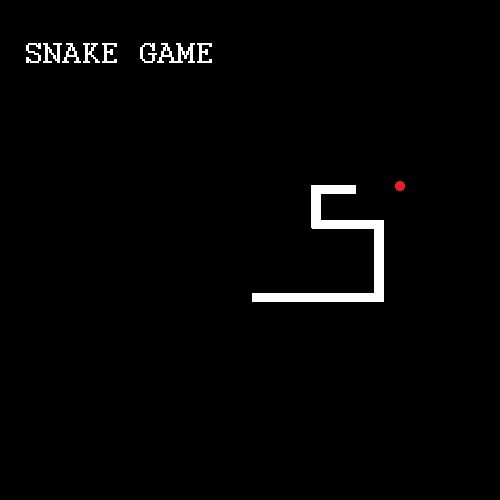
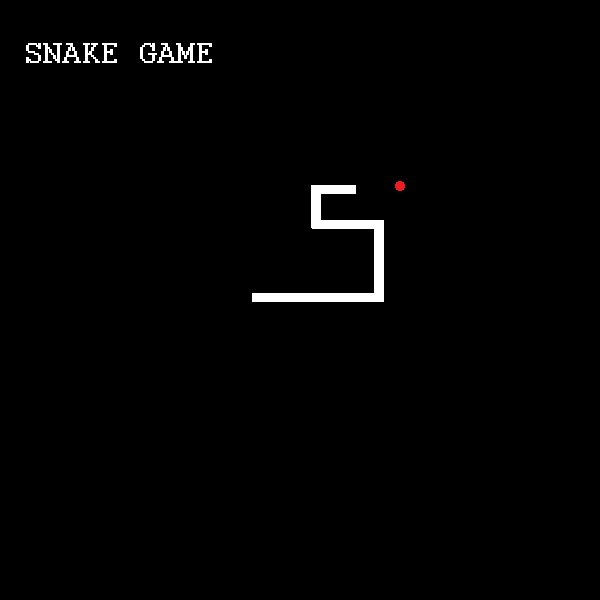
Code reorganization part 2

diff --git a/gui/gui.py b/gui/gui.py
@@ -1,34 +1,50 @@
 import tkinter
 from tkinter import *
+from core.game import main_game
 
 
 class GUI:
     def __init__(self):
         self.window = tkinter.Tk()
         self.window.title("Snake Game")
-        self.screen_width = 500
-        self.screen_height = 500
+        self.screen_width = 600
+        self.screen_height = 600
         self.window.resizable(width=False, height=False)
 
         canvas = tkinter.Canvas(master=self.window, width=self.screen_width, height=self.screen_height)
-        background = tkinter.PhotoImage(file="snake_title_screen.png")
+        background = tkinter.PhotoImage(file="gui/snake_title_screen.png")
         background_label = Label(image=background)
         background_label.place(x=0, y=0)
         canvas.grid(padx=0, pady=0, row=0, column=0, rowspan=10, columnspan=10)
 
+        self.start_button = Button(self.window, text="           Start           ", command=self.start_game).grid(
+            row=2,
+            column=1)
+
+        self.qui_controls = Button(self.window, text="           Controls          ").grid(row=3, column=1)
+
+        self.gui_author = Button(self.window, text="           Author           ").grid(row=4, column=1)
+
+        self.gui_quit = Button(self.window, text="           Quit          ", command=self.window.destroy).grid(
+            row=5,
+            column=1)
+
         self.window.mainloop()
 
-    def gui_start_game(self):
-        pass
+    def start_game(self):
+        self.window.destroy()
+        main_game()
 
     def gui_controls(self):
-        pass
-
-    def gui_author(self):
         pass
 
     def gui_controls_sidebar(self):
         pass
 
+    def author(self):
+        self.gui_quit.destroy()
+        Label(self.window, text="Created by Michal Malek. Upgraded version of Snake Game from 100 Days of Code Python "
+                                "Challenge")
 
-screen = GUI()
+
+# screen = GUI()

diff --git a/core/game.py b/core/game.py
@@ -1,0 +1,55 @@
+from turtle import Screen
+from core.snake import Snake
+from core.food import Food
+from core.scoreboard import Score
+import time
+
+
+def main_game():
+    # Screen initialize + screen setup
+    screen = Screen()
+    screen.setup(width=600, height=600)
+    screen.bgcolor("black")
+    screen.title("Snake Game")
+    screen.tracer(0)
+
+    # Create snake from Snake class
+    snake = Snake()
+    food = Food()
+    score = Score()
+
+    # Listen to user controls: how to control snake
+    screen.listen()
+    screen.onkey(snake.up, "Up")
+    screen.onkey(snake.down, "Down")
+    screen.onkey(snake.left, "Left")
+    screen.onkey(snake.right, "Right")
+
+    # Main game loop
+    is_game_on = True
+    while is_game_on:
+        screen.update()
+        time.sleep(0.1)
+
+        snake.move()
+
+        # Food collision:
+        if snake.SNAKE_HEAD.distance(food) < 15:
+            food.new_food()
+            score.add_score()
+            snake.extend_snake()
+            # print(score.score)
+
+        # Wall collision:
+        if snake.SNAKE_HEAD.xcor() >= 290 or snake.SNAKE_HEAD.xcor() <= -290 or snake.SNAKE_HEAD.ycor() >= 290 or \
+                snake.SNAKE_HEAD.ycor() <= -290:
+            is_game_on = False
+            score.game_over()
+
+        # Snake collision:
+        for segment in snake.snake_segments[1:]:
+            if snake.SNAKE_HEAD.distance(segment) < 10:
+                is_game_on = False
+                score.game_over()
+
+    screen.exitonclick()

diff --git a/main.py b/main.py
@@ -1,53 +1,3 @@
-from turtle import Screen
-from core.snake import Snake
-from core.food import Food
-from core.scoreboard import Score
-import time
+from gui.gui import GUI
 
-# Screen initialize + screen setup
-screen = Screen()
-screen.setup(width=600, height=600)
-screen.bgcolor("black")
-screen.title("Snake Game")
-screen.tracer(0)
-
-# Create snake from Snake class
-snake = Snake()
-food = Food()
-score = Score()
-
-# Listen to user controls: how to control snake
-screen.listen()
-screen.onkey(snake.up, "Up")
-screen.onkey(snake.down, "Down")
-screen.onkey(snake.left, "Left")
-screen.onkey(snake.right, "Right")
-
-# Main game loop
-is_game_on = True
-while is_game_on:
-    screen.update()
-    time.sleep(0.1)
-
-    snake.move()
-
-    # Food collision:
-    if snake.SNAKE_HEAD.distance(food) < 15:
-        food.new_food()
-        score.add_score()
-        snake.extend_snake()
-        # print(score.score)
-
-    # Wall collision:
-    if snake.SNAKE_HEAD.xcor() >= 290 or snake.SNAKE_HEAD.xcor() <= -290 or snake.SNAKE_HEAD.ycor() >= 290 or \
-            snake.SNAKE_HEAD.ycor() <= -290:
-        is_game_on = False
-        score.game_over()
-
-    # Snake collision:
-    for segment in snake.snake_segments[1:]:
-        if snake.SNAKE_HEAD.distance(segment) < 10:
-            is_game_on = False
-            score.game_over()
-
-screen.exitonclick()
+screen = GUI()
